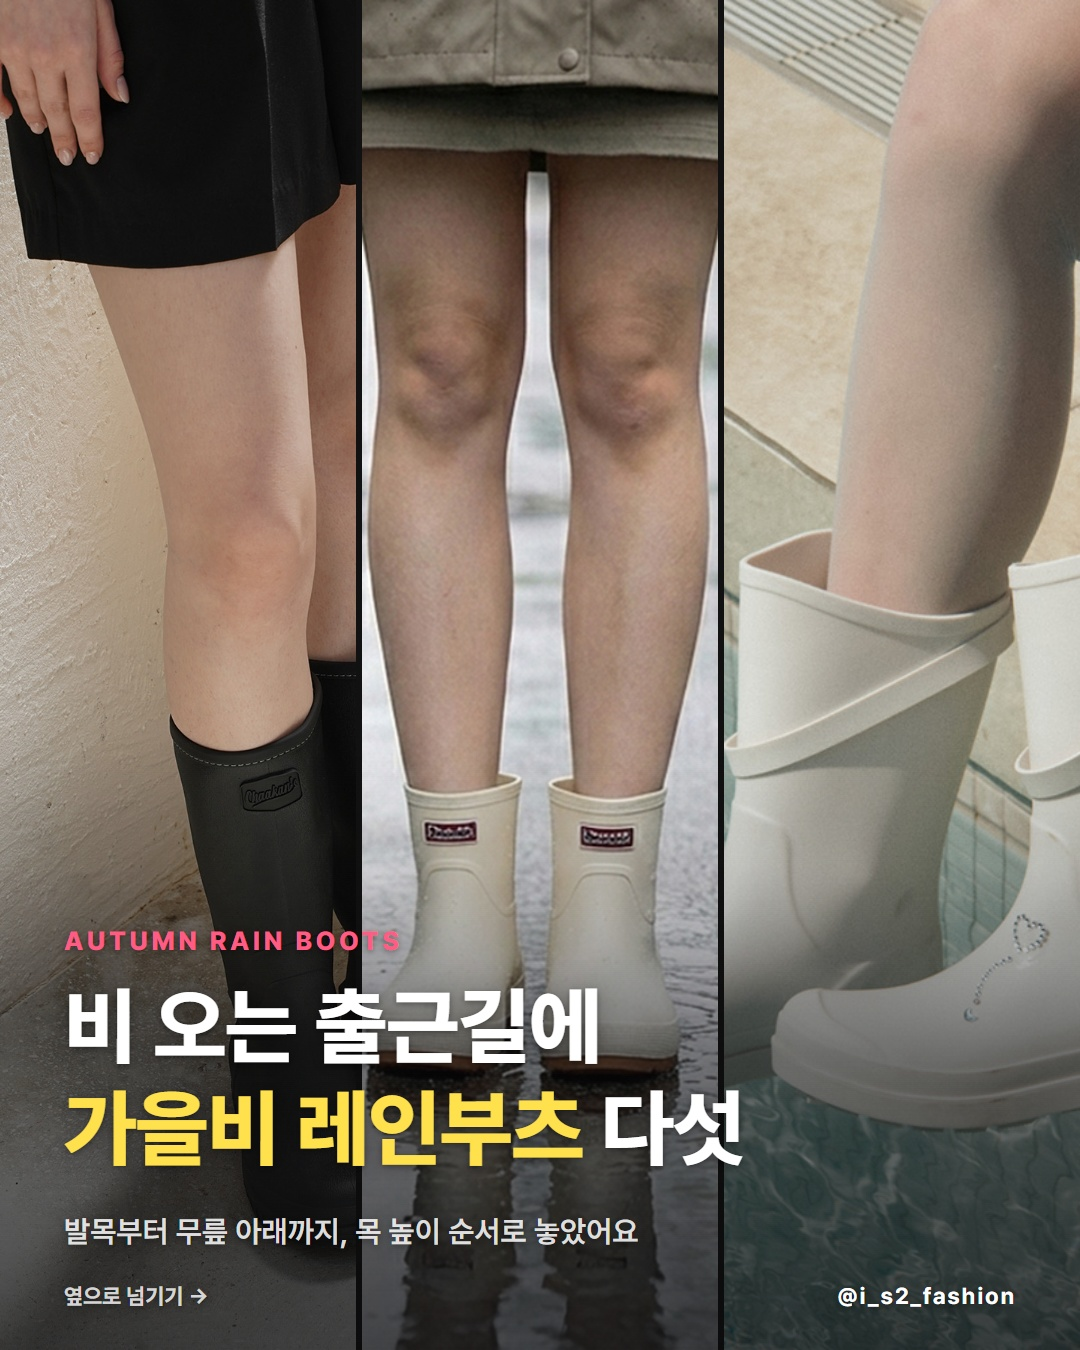
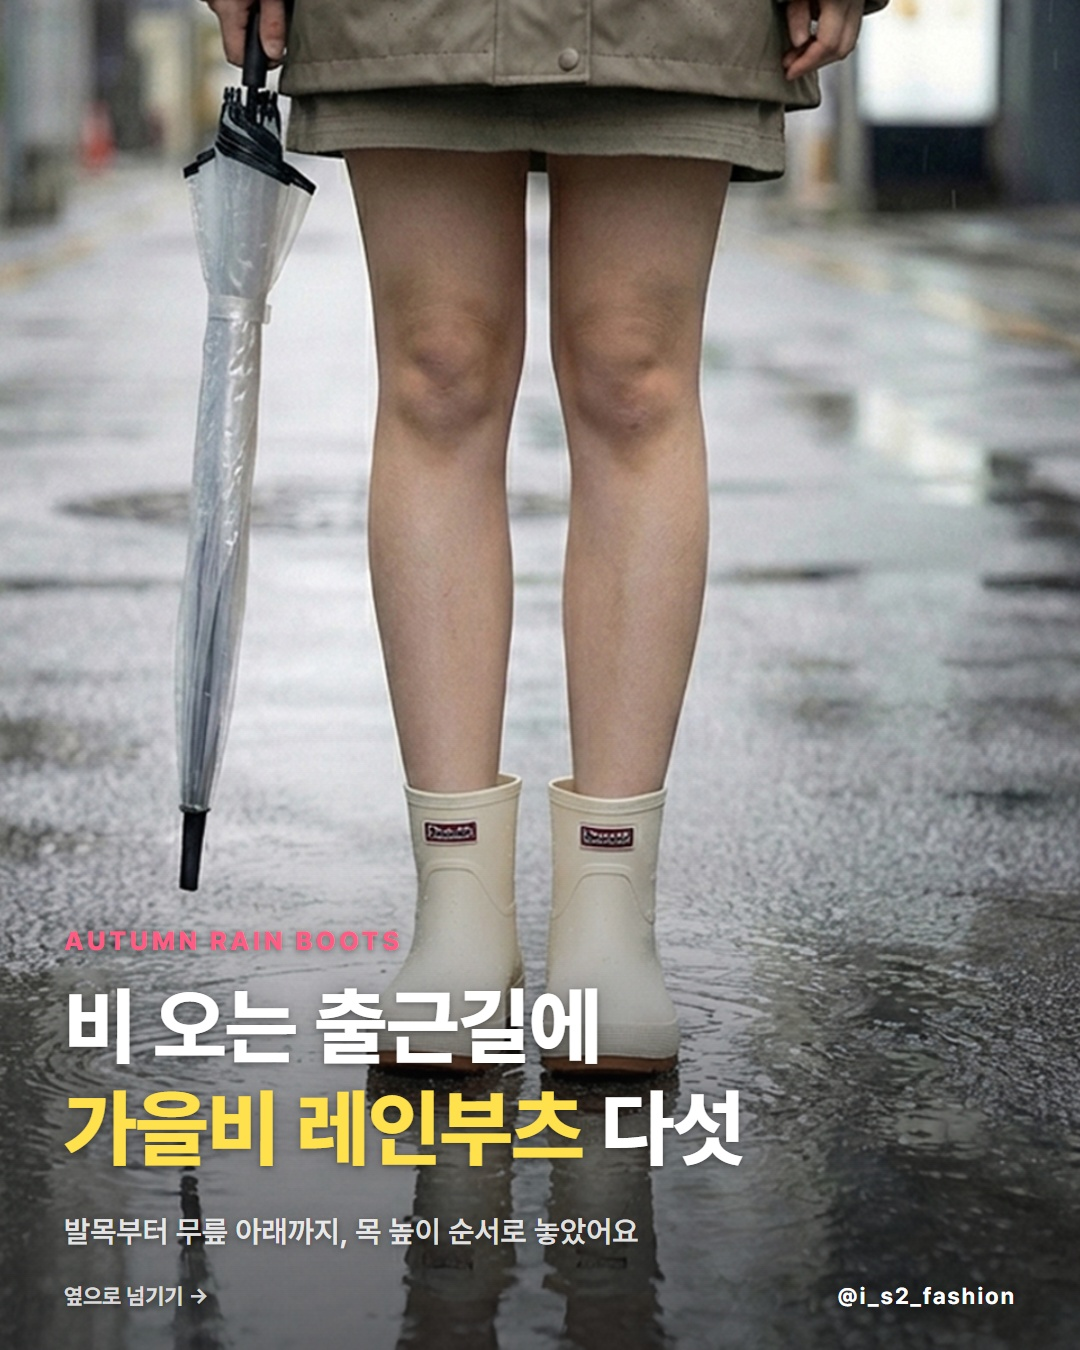
autopost: 20261013 가을비 레인부츠 표지를 단일 착용컷으로(사용자 피드백)

diff --git a/episodes/20261013 가을비 레인부츠/result.md b/episodes/20261013 가을비 레인부츠/result.md
@@ -12,7 +12,7 @@
 - **대조군**: 20260917 가을 부츠(도달 1,718·공유 1, 정보·큐레이션형) / 20261007 가을 등산 하렘팬츠(도달 11·공유 0)
 - **판정 기준**: +72h 도달 200 이상 + 공유 1건 이상 · 유입 '기타' 비중 참고
 - **캡션 무드**: 정보·큐레이션형
-- **표지 유형**: 무드형(콜라주 3띠)
+- **표지 유형**: 무드형(단일 착용컷 — 비 오는 거리)
 - **변수 오염·주의**: 로스터 브랜드 0곳(신발 로스터 없음, 08-27 아가일 전례) · 하버드 슈즈 핸들 미검증으로 태그 4곳 · 사용자 지정 키워드라 랭킹 수요 근거는 부츠류 일반으로 간접적
 
 ## 2. 게시 전 검증
